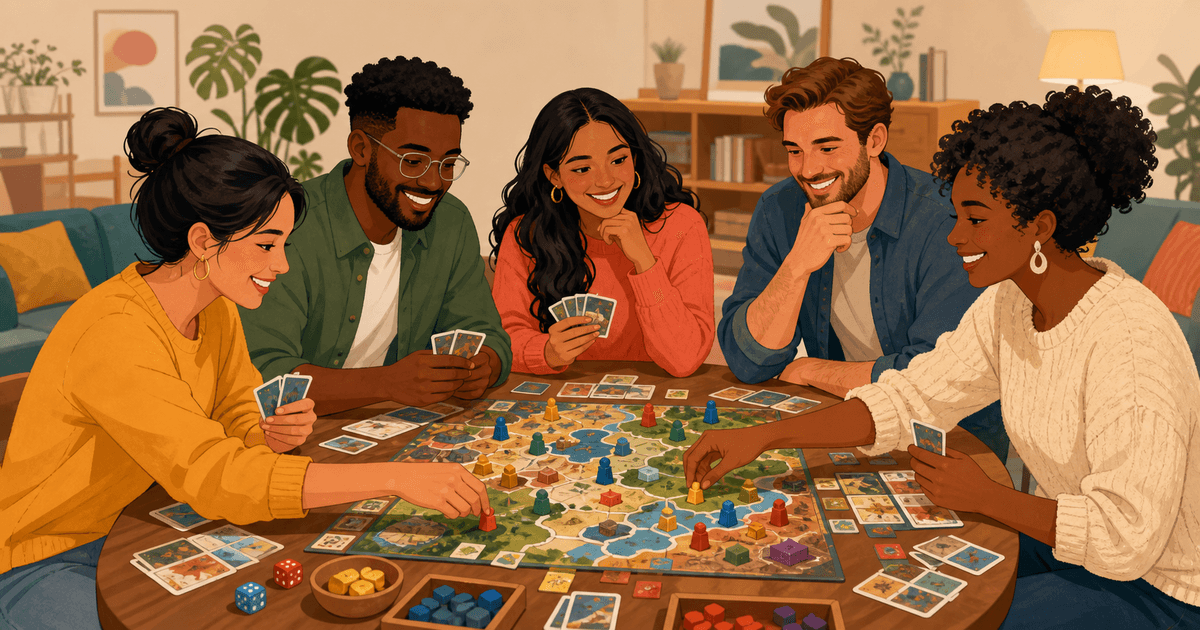
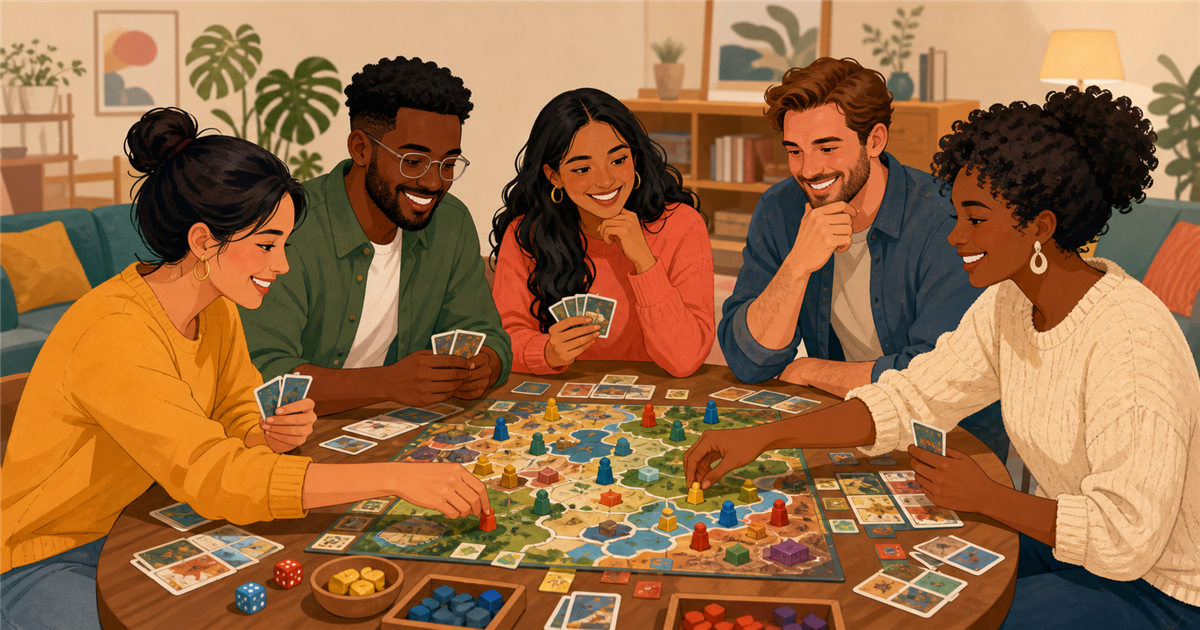
Tighten race finale and update OG image

diff --git a/public/index.html b/public/index.html
@@ -15,8 +15,8 @@
 <meta property="og:title" content="BEST 파티게임">
 <meta property="og:description" content="가볍고 빠른 파티게임! 간단하지만 재미있는 게임을 친구들과 함께 즐겨보세요.">
 <meta property="og:url" content="https://party-games-msnu.onrender.com/">
-<meta property="og:image" content="https://party-games-msnu.onrender.com/assets/party-games-og.png?v=20260821-2">
-<meta property="og:image:secure_url" content="https://party-games-msnu.onrender.com/assets/party-games-og.png?v=20260821-2">
+<meta property="og:image" content="https://party-games-msnu.onrender.com/assets/party-games-og.png?v=20260821-3">
+<meta property="og:image:secure_url" content="https://party-games-msnu.onrender.com/assets/party-games-og.png?v=20260821-3">
 <meta property="og:image:type" content="image/png">
 <meta property="og:image:width" content="1200">
 <meta property="og:image:height" content="630">
@@ -24,14 +24,14 @@
 <meta name="twitter:card" content="summary_large_image">
 <meta name="twitter:title" content="BEST 파티게임">
 <meta name="twitter:description" content="가볍고 빠른 파티게임! 간단하지만 재미있는 게임을 친구들과 함께 즐겨보세요.">
-<meta name="twitter:image" content="https://party-games-msnu.onrender.com/assets/party-games-og.png?v=20260821-2">
+<meta name="twitter:image" content="https://party-games-msnu.onrender.com/assets/party-games-og.png?v=20260821-3">
 <meta name="twitter:image:alt" content="친구들이 함께 보드게임을 즐기는 모습">
 <link rel="canonical" href="https://party-games-msnu.onrender.com/">
 <link rel="manifest" href="/site.webmanifest">
 <link rel="icon" type="image/png" href="/assets/pig-mascot.png">
 <link rel="apple-touch-icon" href="/assets/pig-mascot.png">
 <title>다같이 게임즈 | 친구들과 즐기는 실시간 파티 게임</title>
-<script type="application/ld+json">{"@context":"https://schema.org","@type":"WebApplication","name":"다같이 게임즈","url":"https://party-games-msnu.onrender.com/","description":"방 코드 하나로 친구들과 즐기는 무료 실시간 모바일 파티 게임","applicationCategory":"GameApplication","operatingSystem":"Web","inLanguage":"ko-KR","isAccessibleForFree":true,"image":"https://party-games-msnu.onrender.com/assets/party-games-og.png?v=20260821-2"}</script>
+<script type="application/ld+json">{"@context":"https://schema.org","@type":"WebApplication","name":"다같이 게임즈","url":"https://party-games-msnu.onrender.com/","description":"방 코드 하나로 친구들과 즐기는 무료 실시간 모바일 파티 게임","applicationCategory":"GameApplication","operatingSystem":"Web","inLanguage":"ko-KR","isAccessibleForFree":true,"image":"https://party-games-msnu.onrender.com/assets/party-games-og.png?v=20260821-3"}</script>
 <link rel="stylesheet" href="css/font.css">
 <link rel="stylesheet" href="css/base.css">
 <link rel="stylesheet" href="css/commonLayout.css">
@@ -175,7 +175,7 @@ button:disabled {background:#aaa4b8; cursor:not-allowed;}
 .raceLane {position:relative; height:82px; border-bottom:2px dashed rgba(255,255,255,.25);}
 .raceLane::after {position:absolute; right:0; top:0; z-index:3; width:5px; height:100%; content:''; background:repeating-linear-gradient(#fff 0 8px, #111 8px 16px);}
 .raceObject {position:absolute; left:calc((100% - 88px) * var(--progress)); top:2px; width:88px; height:76px; object-fit:contain; transition:left .2s linear, transform .2s ease;}
-.raceTrack.finale .raceObject {transition-duration:.52s;}
+.raceTrack.finale .raceObject {transition-duration:.4s;}
 .raceLabel {position:absolute; left:4px; top:4px; z-index:2; font-family:NotoSansB, sans-serif; font-size:11px; color:#fff; text-shadow:0 1px 3px #000;}
 .raceObject.backward {transform:scaleX(-1);}
 .raceObject.stopped {transform:rotate(-8deg) scale(.92); filter:grayscale(.6);}

diff --git a/server.js b/server.js
@@ -32,7 +32,7 @@ const randomBetween = (minimum, maximum) => randomInt(minimum, maximum + 1);
 const randomCard = () => randomBetween(1, 100);
 const randomStockChange = country => country === 'KR' ? randomBetween(-3000, 3000) / 100 : randomBetween(-9900, 30000) / 100;
 const marketRevealMs = require.main === module ? 3000 : 30;
-const raceTiming = require.main === module ? {start:700, normal:320, finale:650} : {start:5, normal:2, finale:4};
+const raceTiming = require.main === module ? {start:700, normal:320, finale:400} : {start:5, normal:2, finale:4};
 const raceDuration = require.main === module ? 10_000 : 100;
 const stockFeeRate = 0.001;
 const stockList = [
@@ -266,8 +266,10 @@ function raceStep(room) {
     const distance = incident === 'backward' ? -randomBetween(4, 8) : incident === 'boost' ? randomBetween(5, 7) : ['stopped', 'flipped', 'sick', 'broken'].includes(incident) ? 0 : slow ? randomBetween(1, 2) : randomBetween(2, 4);
     room.game.racePositions[racer.id] = Math.min(slow ? 98 : 84, Math.max(0, room.game.racePositions[racer.id] + distance));
   });
-  const leader = Math.max(...Object.values(room.game.racePositions));
-  if (!slow && (leader >= 82 || room.game.raceEndsAt - Date.now() <= raceDuration / 4)) room.game.phase = 'finale';
+  if (!slow && room.game.raceEndsAt - Date.now() <= raceDuration / 5) {
+    shuffle(racers).sort((a, b) => room.game.racePositions[a.id] - room.game.racePositions[b.id]).forEach((racer, index) => room.game.racePositions[racer.id] = 90 + index);
+    room.game.phase = 'finale';
+  }
   if (Date.now() >= room.game.raceEndsAt) {
     const winner = shuffle(racers).sort((a, b) => room.game.racePositions[b.id] - room.game.racePositions[a.id])[0];
     room.game.raceWinner = winner;

diff --git a/test/race.test.js b/test/race.test.js
@@ -22,7 +22,9 @@ test('경마는 전원 선택 후 무작위 진행과 결승 슬로모션을 거
     const result = waitFor(players[0], room => room.status === 'result' && room.game?.type === 'race');
     const startedAt = Date.now();
     await Promise.all([emit(players[0], 'race:choose', {racerId:'turtle'}), emit(players[1], 'race:choose', {racerId:'worm'})]);
-    assert.equal((await finale).game.phase, 'finale');
+    const finaleRoom = await finale;
+    assert.equal(finaleRoom.game.phase, 'finale');
+    assert.ok(Math.max(...Object.values(finaleRoom.game.racePositions)) - Math.min(...Object.values(finaleRoom.game.racePositions)) <= 4);
     const finished = await result;
     assert.ok(Date.now() - startedAt >= 100);
     assert.ok(finished.game.raceWinner);
